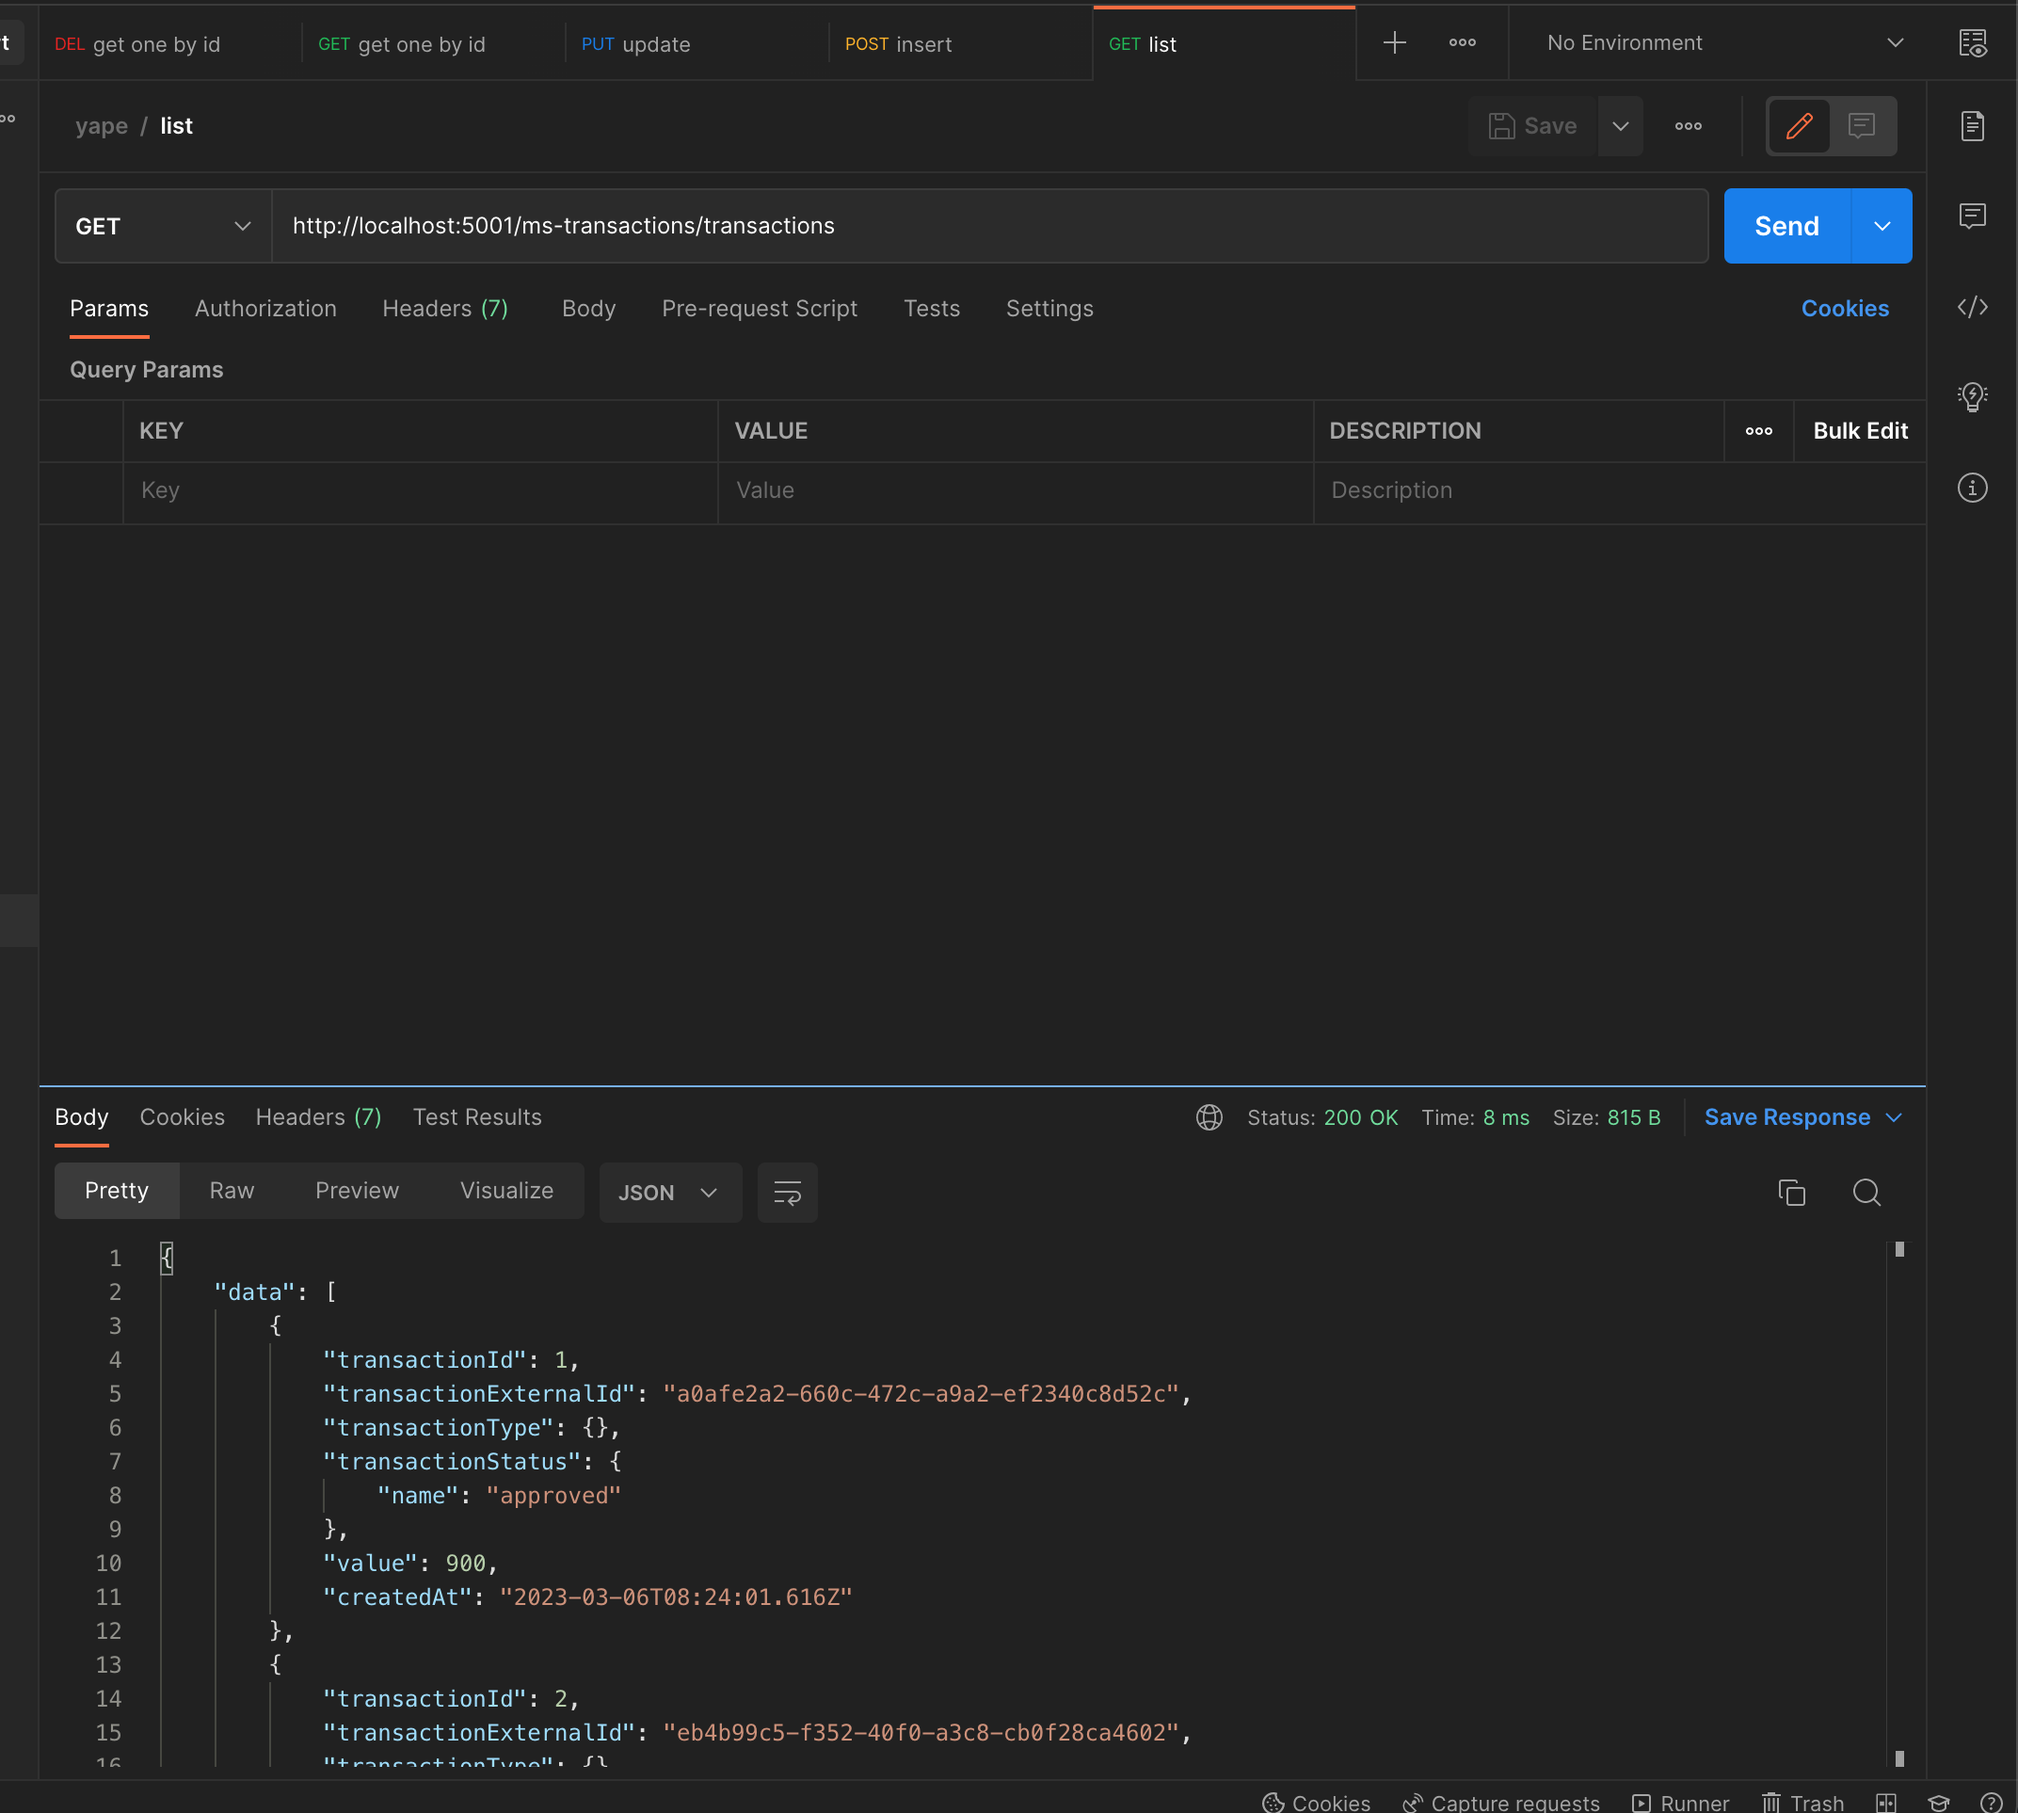
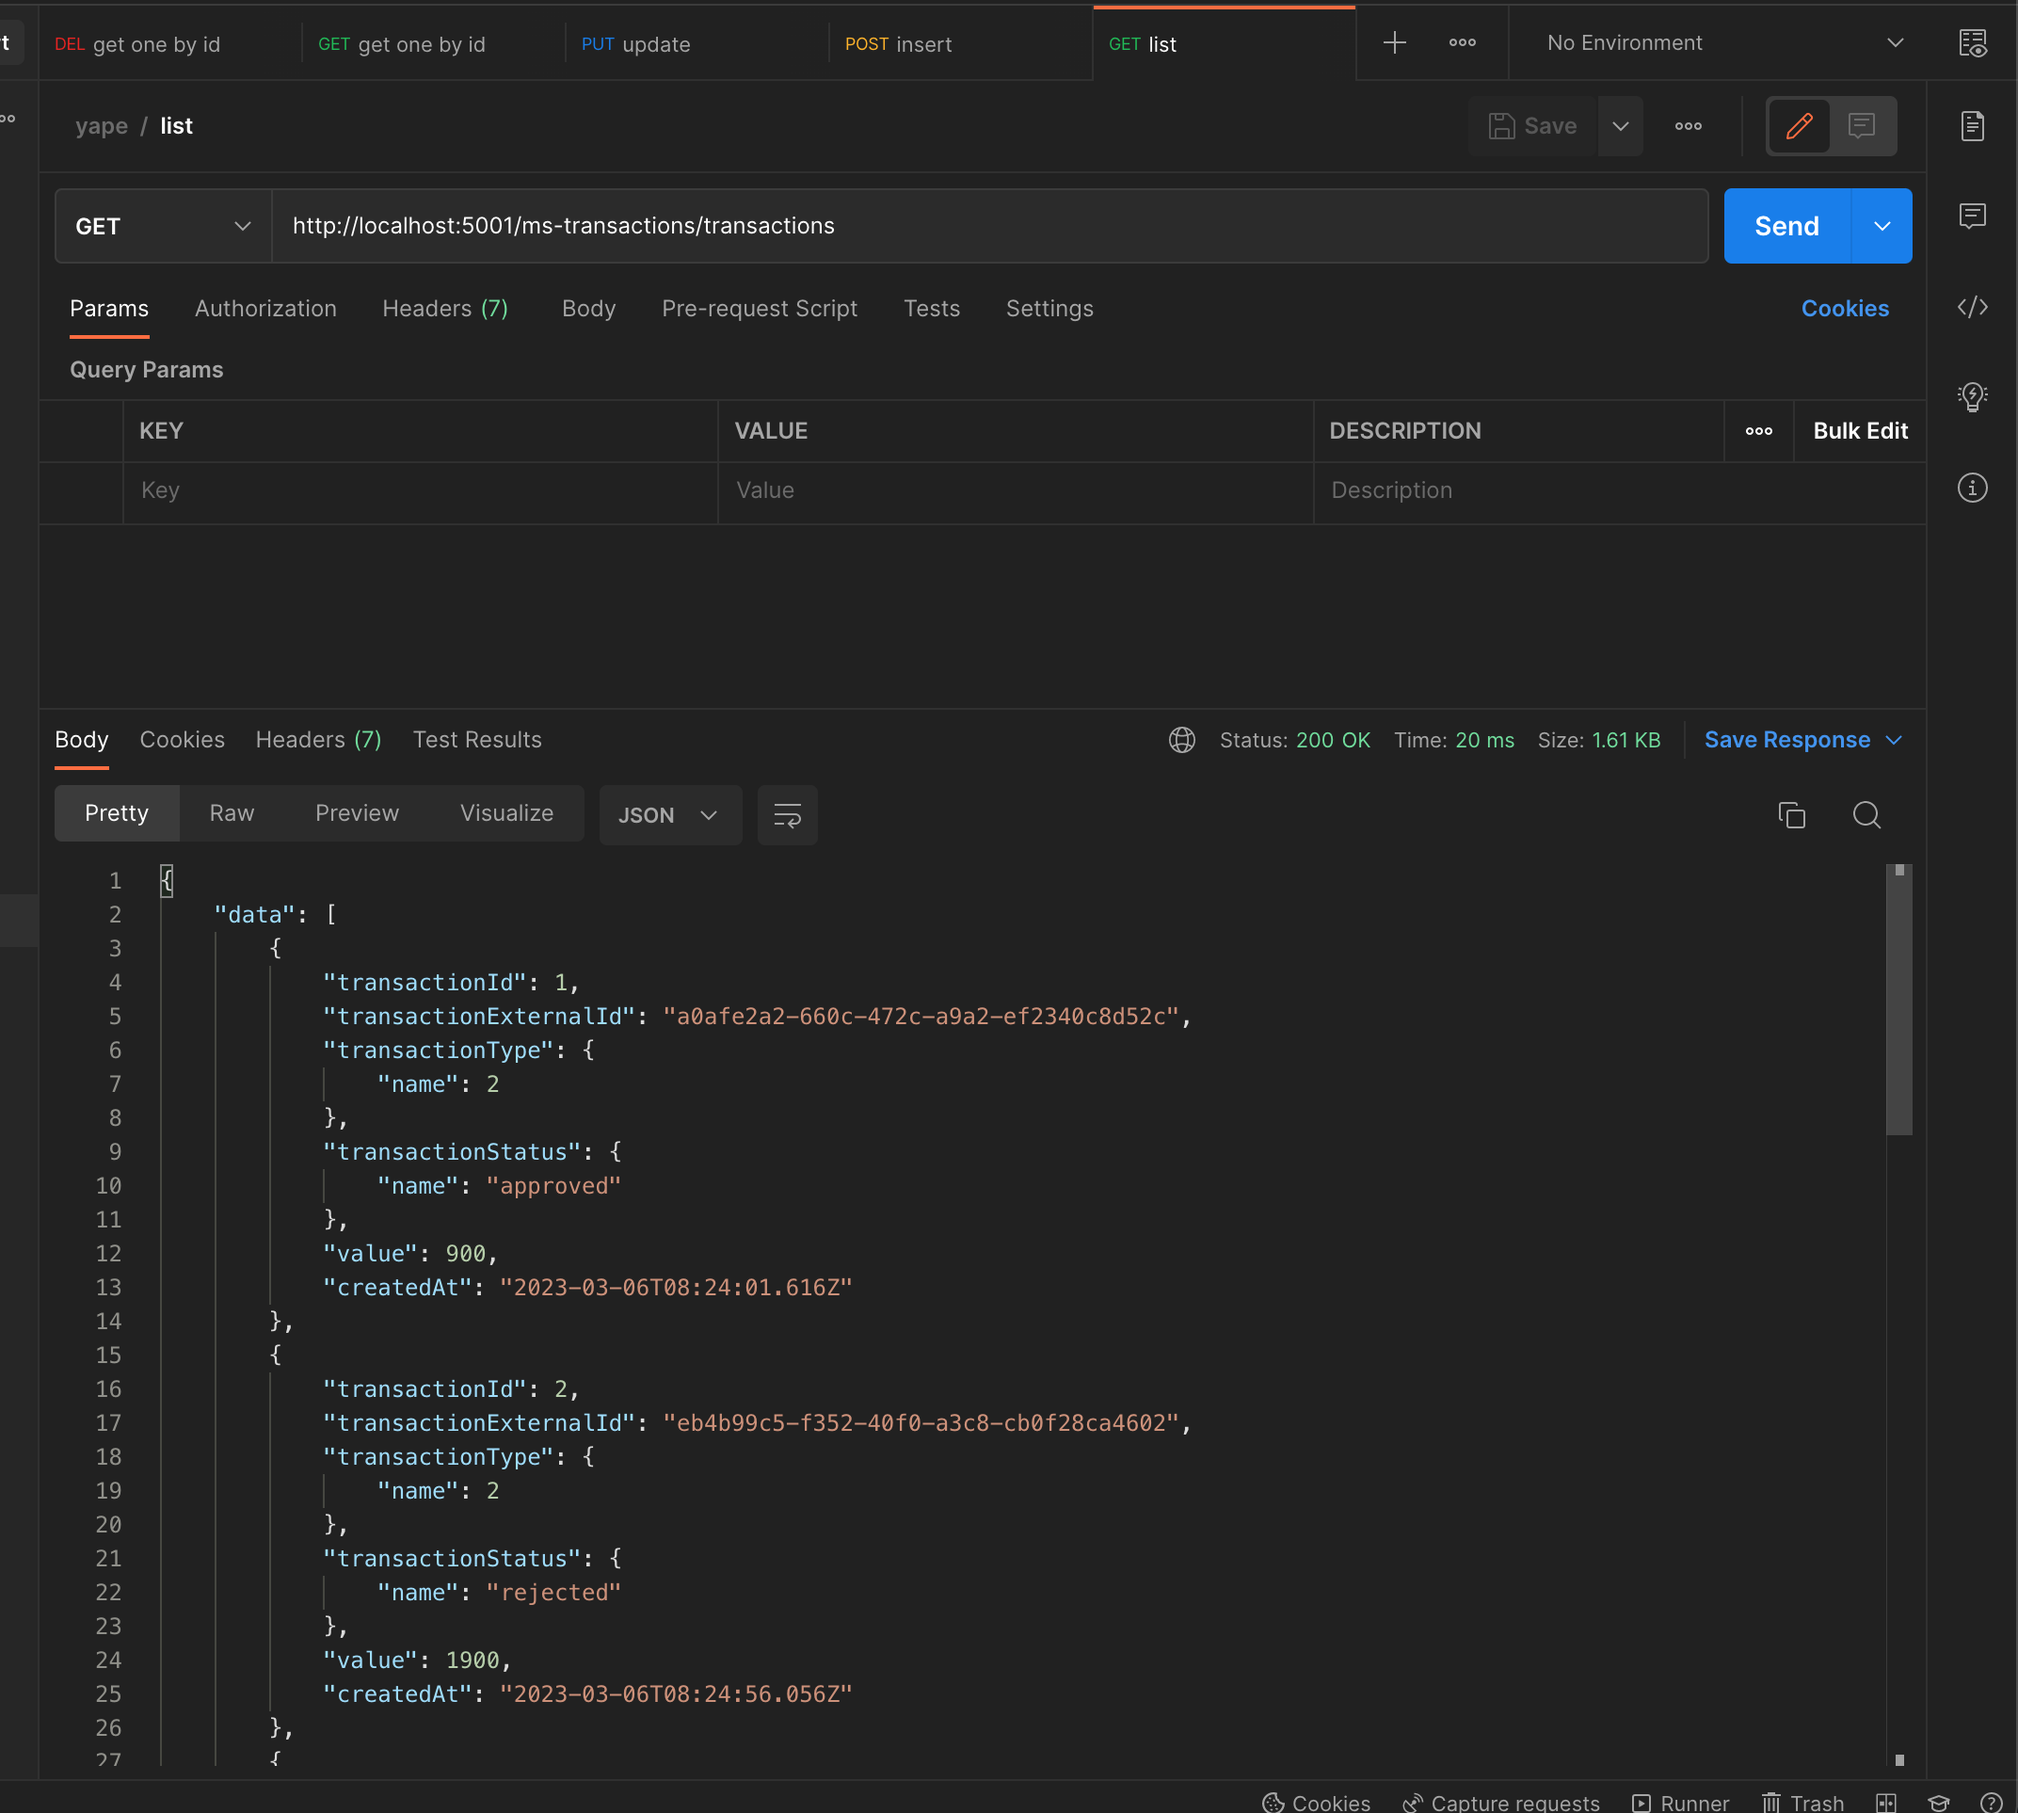
fix: dto transactions

diff --git a/ms-transaction/src/domain/dtos/transactionDTO.js b/ms-transaction/src/domain/dtos/transactionDTO.js
@@ -3,7 +3,7 @@ class TransactionDTO {
     this.transactionId = data.id
     this.transactionExternalId = data.transaction_external_id
     this.transactionType = {
-      name: data.transaction_type
+      name: data.tranfer_type_id
     }
     this.transactionStatus = {
       name: data.status

diff --git a/Solution.md b/Solution.md
@@ -102,9 +102,11 @@ ALTER TABLE IF EXISTS public.frauds
 * 3: levantar microservicios
     ```
     $ cd ms-transaction/
+    $ npm i
     $ npm start
 
     $ cd ms-fraud/
+    $ npm i
     $ npm start
     ```
 * 4: Ejecutar curls
